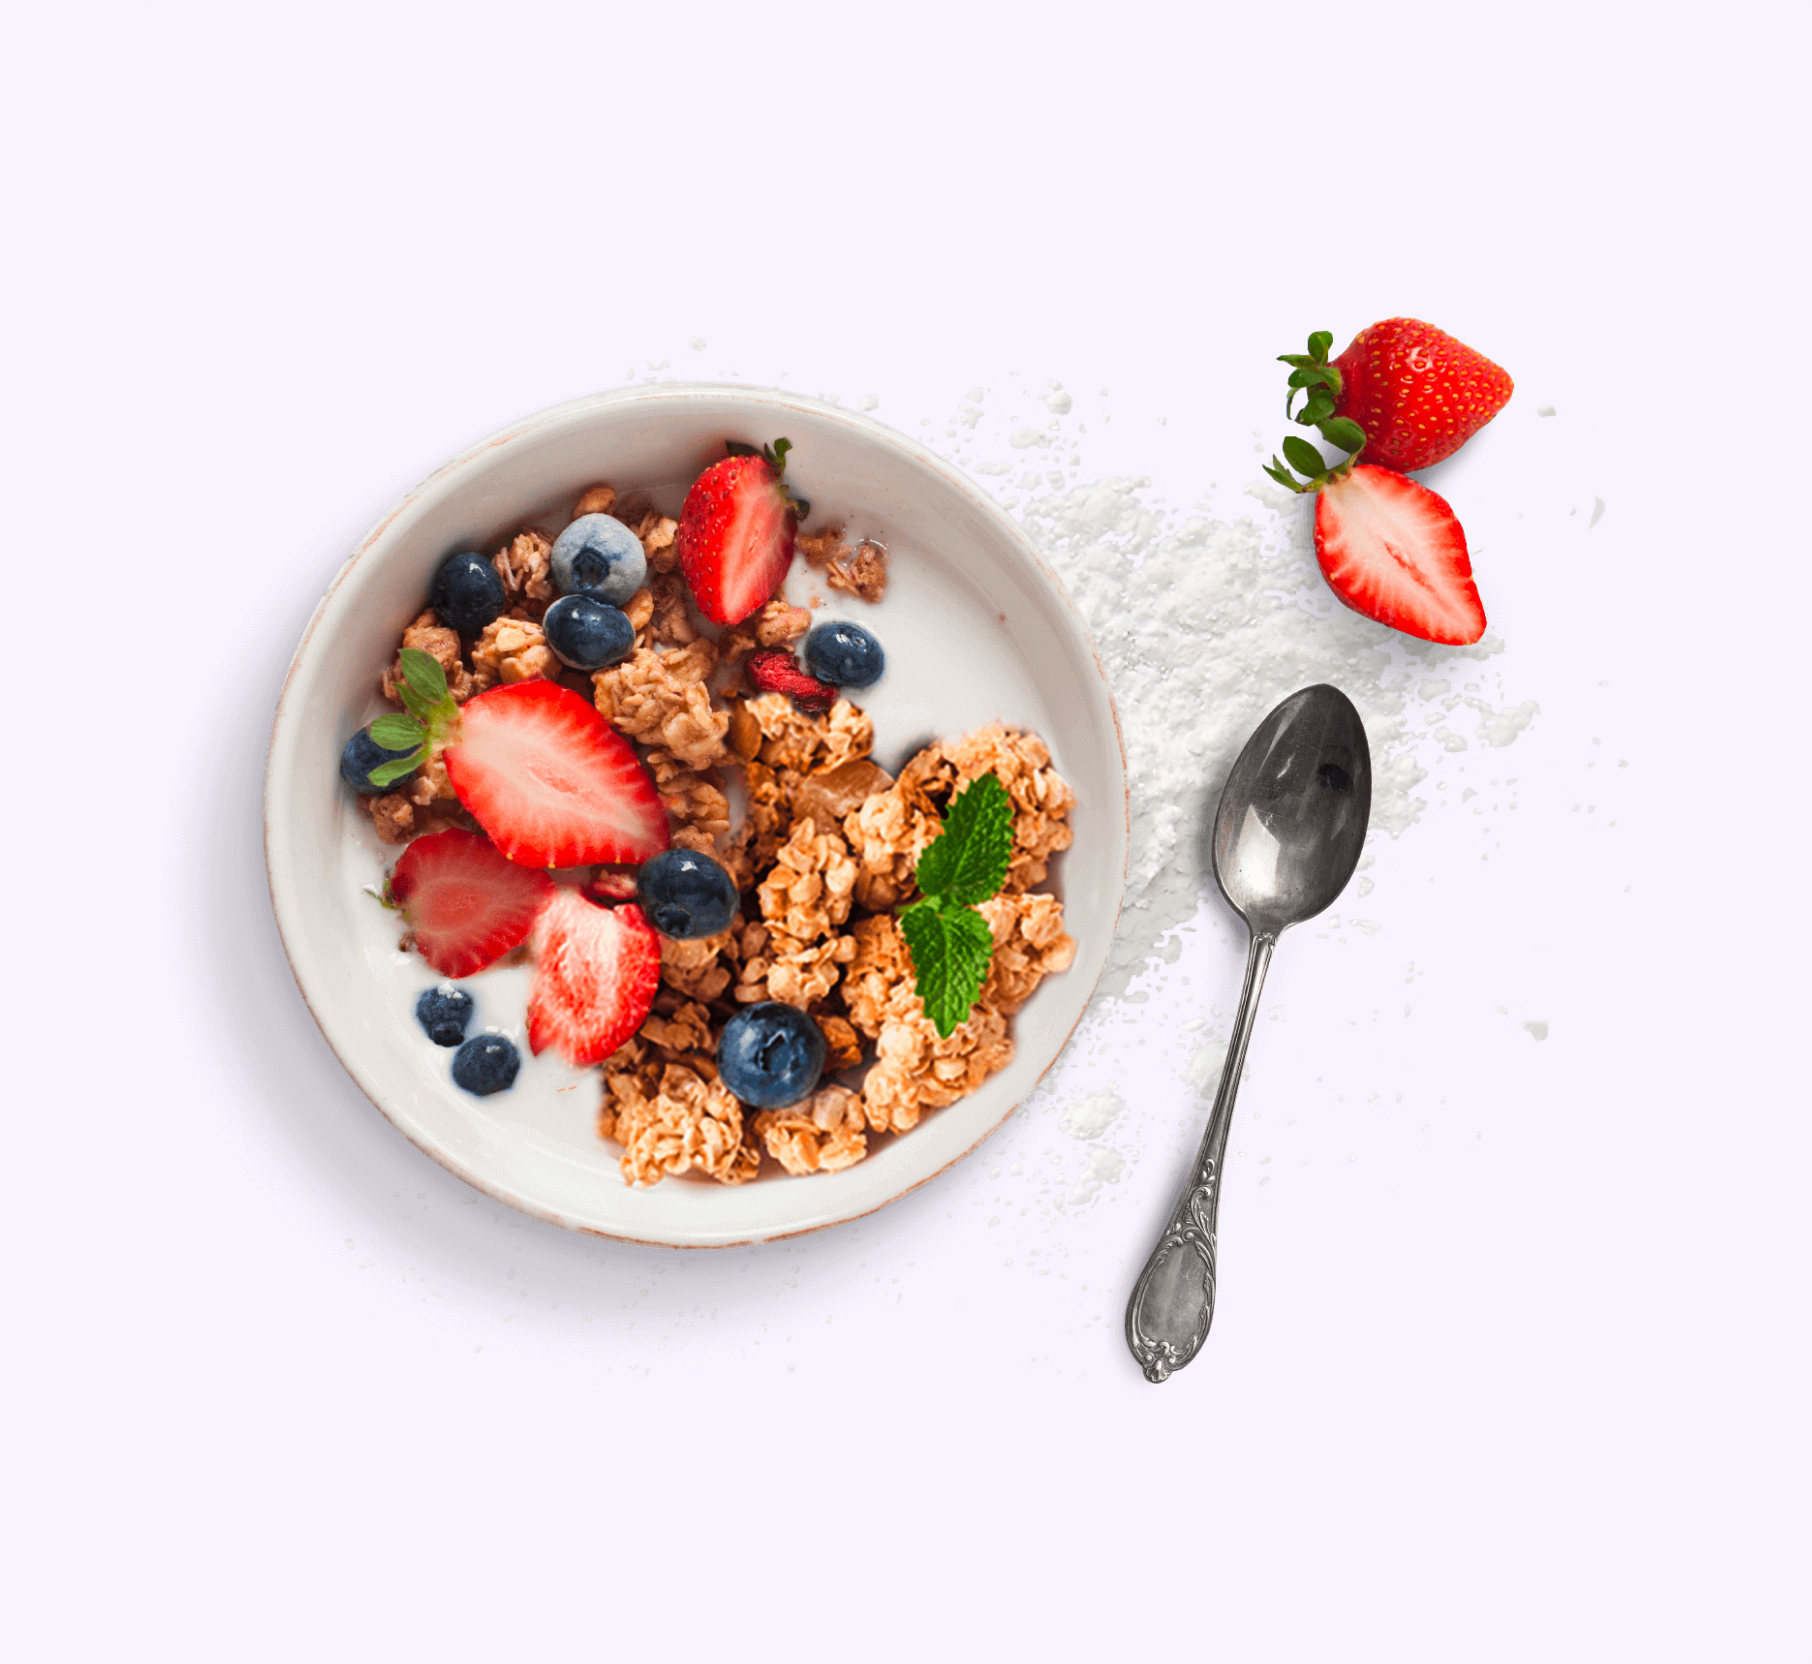
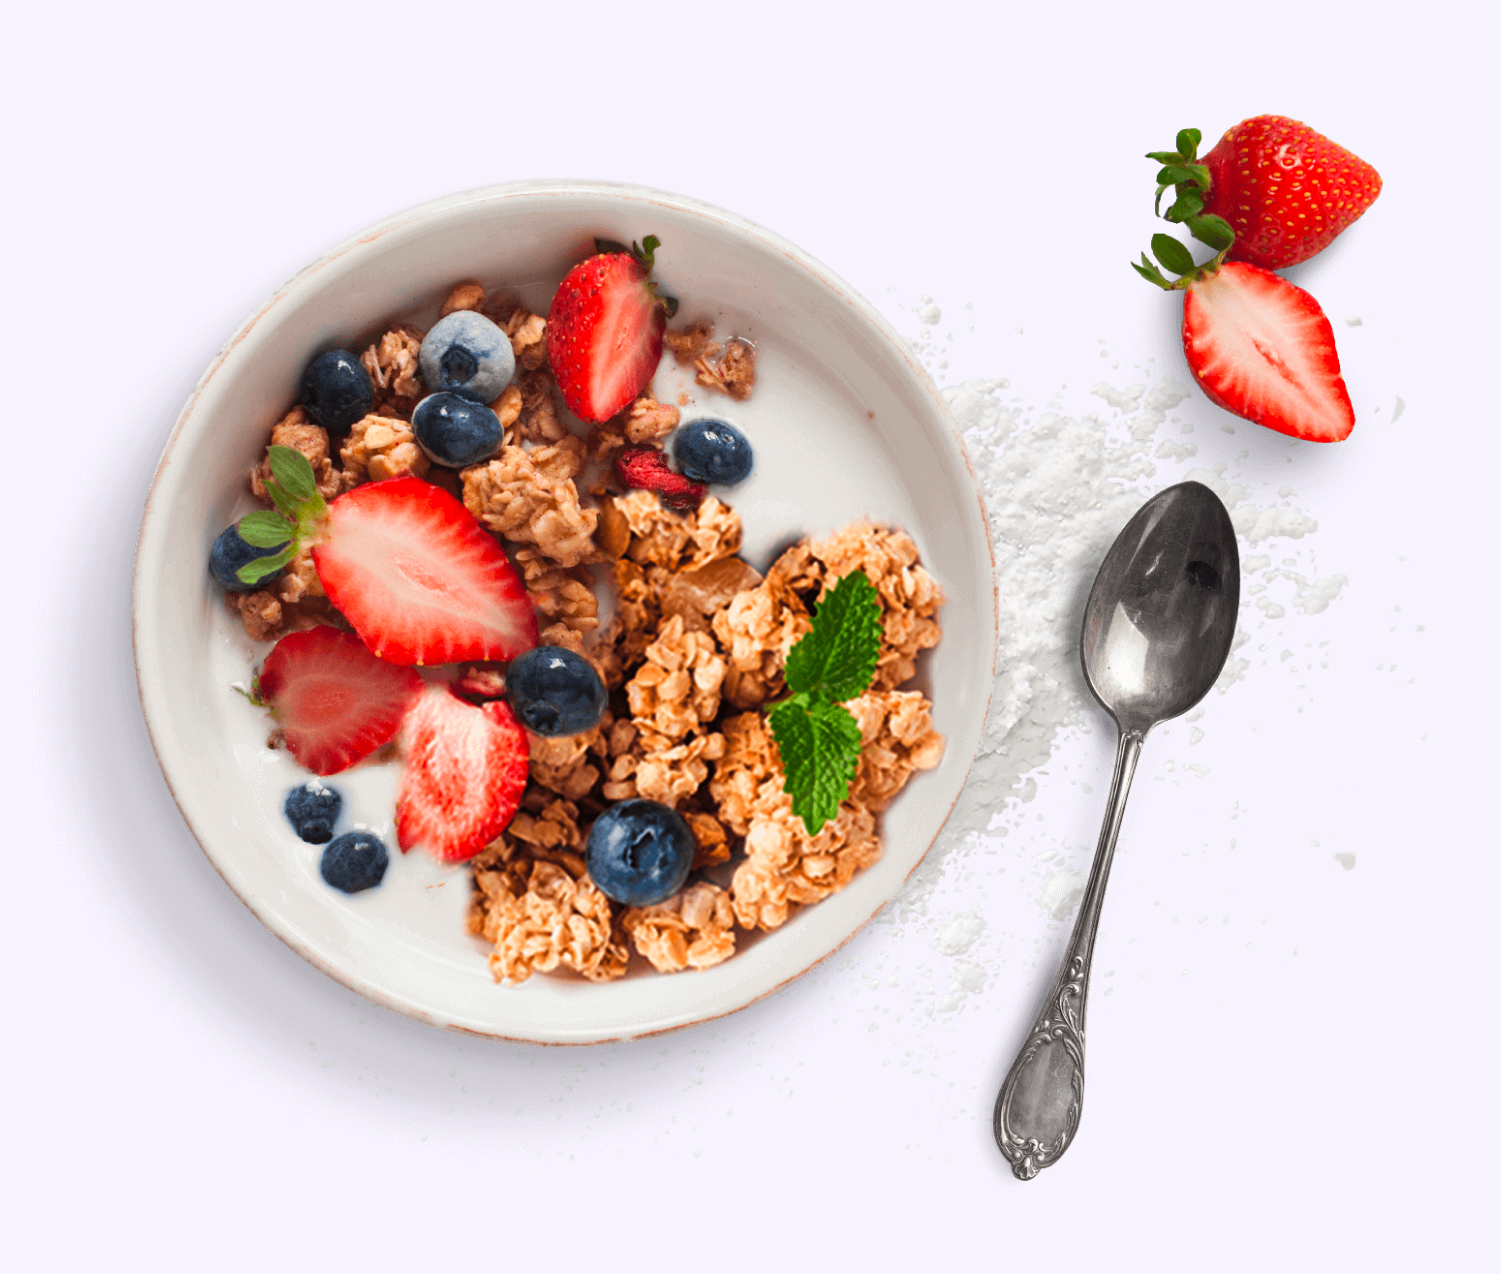
Added features section

diff --git a/src/styles/sections/hero.scss b/src/styles/sections/hero.scss
@@ -1,50 +1,67 @@
 // Hero specific breakpoints
 $hero-small: 865px;
+$hero-large: 1200px;
 
 .hero-section {
+  position: relative;
   padding-top: 40px;
   margin-top: -80px;
   background: #F7F3FE;
-  background-image: url('~images/hero-sweetly.jpg');
-  background-size: 55%;
-  background-repeat: no-repeat;
-  background-position: 90% 50%;
+  overflow: hidden;
+}
+
+.hero-banner-image {
+  @extend %center-within;
+  left: auto;
+  position: absolute;
+  right: 8%;
+  width: 50%;
+  overflow: visible;
   transition: background-image $transition-medium ease-in;
 
-  @include media(max-width medium) {
-    background-size: 60%;
-    background-position: 110% 50%;
+  @include media(max-width $hero-small) {
+    position: relative;
+    padding-top: $spacing-m;
+    z-index: 50;
+    width: 100vw;
+    transform: translateY(0);
+    margin: 0 auto;
   }
 
-  @include media(max-width $hero-small) {
-    background-size: 75vh;
-    background-position: center -5%;
-    height: 100vh;
+  img {
+    width: 100%;
+    max-width: 100%;
   }
 }
 
 .hero-section-container {
   @extend %layout-container;
+  position: relative;
 }
 
 .hero-section-content {
+  position: relative;
   max-width: rem(450px);
-  padding: rem(220px) 0;
+  padding: rem(180px) 0;
+  z-index: 100;
 
-  @include media(max-width large) {
+  @include media(max-width $hero-large) {
     max-width: rem(380px);
+    padding: rem(120px) 0;
   }
 
   @include media(max-width $hero-small) {
-    position: absolute;
-    bottom: 0;
-    left: 50%;
-    width: 100%;
-    max-width: rem(340px);
+    max-width: rem(460px);
+    padding-top: $spacing-s;
+    margin-top: -100px;
     padding-bottom: $spacing-xl;
     margin: 0 auto;
     text-align: center;
-    transform: translateX(-50%);
+  }
+
+  .hero-content-center-aligned & {
+    margin: 0 auto;
+    text-align: center;
   }
 }
 

diff --git a/src/styles/components/features.scss b/src/styles/components/features.scss
@@ -1,0 +1,43 @@
+.features {
+
+}
+
+.features-container {
+  padding-top: 48px;
+  padding-bottom: 48px;
+}
+
+.features-section-list {
+  @extend %clearfix;
+  display: flex;
+  flex-wrap: wrap;
+  max-width: $grid-max-width;
+  margin-left: -$spacing-m;
+  margin-right: -$spacing-m;
+}
+
+.features-item-illustration {
+  margin-bottom: $spacing-m;
+}
+
+.features-section-item {
+  flex: 1 1 percentage(1 / 4);
+  padding: 0 $spacing-m;
+  text-align: center;
+
+  @include media(max-width medium) {
+    flex: 1 1 percentage(1/2);
+    margin-bottom: $spacing-l;
+  }
+}
+
+.features-section-title {
+  @extend %h6;
+  font-family: $font-body;
+  margin-top: 0;
+  margin-bottom: $spacing-xs;
+}
+
+.features-section-text {
+  margin-top: $spacing-s;
+}

diff --git a/src/styles/settings/_font-settings.scss b/src/styles/settings/_font-settings.scss
@@ -51,9 +51,9 @@ $fs-heading-6: (
 );
 
 $fs-display-1: (
-  null  : (40px, 1.2),
+  null  : (32px, 1.2),
+  small: (40px, 1.2),
   medium : (48px, 1.2),
-  large : (56px, 1.2)
 );
 
 $fs-button-small: (
@@ -67,7 +67,7 @@ $fs-button-medium: (
 );
 
 %heading {
-  font-family: 'Sweetly Display', sans-serif !important;
+  font-family: $font-heading;
   font-weight: 500;
   color: $color-heading;
 }
@@ -104,7 +104,7 @@ $fs-button-medium: (
 
 %body {
   @include font-size($fs-body);
-  font-family: 'Sweetly Text', sans-serif;
+  font-family: $font-body;
   font-style: $font-body-style;
   font-weight: $font-body-weight;
   color: $color-text-subdued;

diff --git a/src/styles/variables.scss b/src/styles/variables.scss
@@ -21,8 +21,8 @@ $color-success: #000000;
 $color-success-bg: #000000;
 
 // Typography
-$font-heading: var(--font-heading);
-$font-body: var(--font-body);
+$font-heading: 'Sweetly Display', sans-serif;
+$font-body: 'Sweetly Text', sans-serif;
 $font-body-weight: var(--font-body-weight);
 $font-body-style: var(--font-body-style);
 $font-body-bold-weight: var(--font-body-bold-weight);

diff --git a/src/styles/sections/header.scss b/src/styles/sections/header.scss
@@ -1,5 +1,6 @@
 .site-header {
   position: relative;
+  z-index: 100;
   background: transparent;
   transition: background-color $transition-long ease;
   transition-delay: 0.2s;
@@ -22,6 +23,7 @@
 
     @include media(max-width medium) {
       flex: 1;
+      align-items: center;
     }
   }
 }

diff --git a/src/styles/tools/extends.scss b/src/styles/tools/extends.scss
@@ -33,8 +33,14 @@
 %center-within {
   position: absolute;
   top: 50%;
-  left: 0;
+  left: auto;
   transform: translateY(-50%);
+}
+
+%center-within-reset {
+  position: inherit;
+  top: auto;
+  transform: translateY(0);
 }
 
 // Buttons

diff --git a/src/styles/theme.scss b/src/styles/theme.scss
@@ -36,6 +36,7 @@
 @import './components/icons';
 @import './components/placeholders';
 @import './components/responsive-images';
+@import './components/features';
 
 // Sections
 @import './sections/header';

diff --git a/src/styles/core/layout.scss b/src/styles/core/layout.scss
@@ -13,3 +13,7 @@ body,
 html {
   height: 100%;
 }
+
+.section-container {
+  @extend %layout-container;
+}
